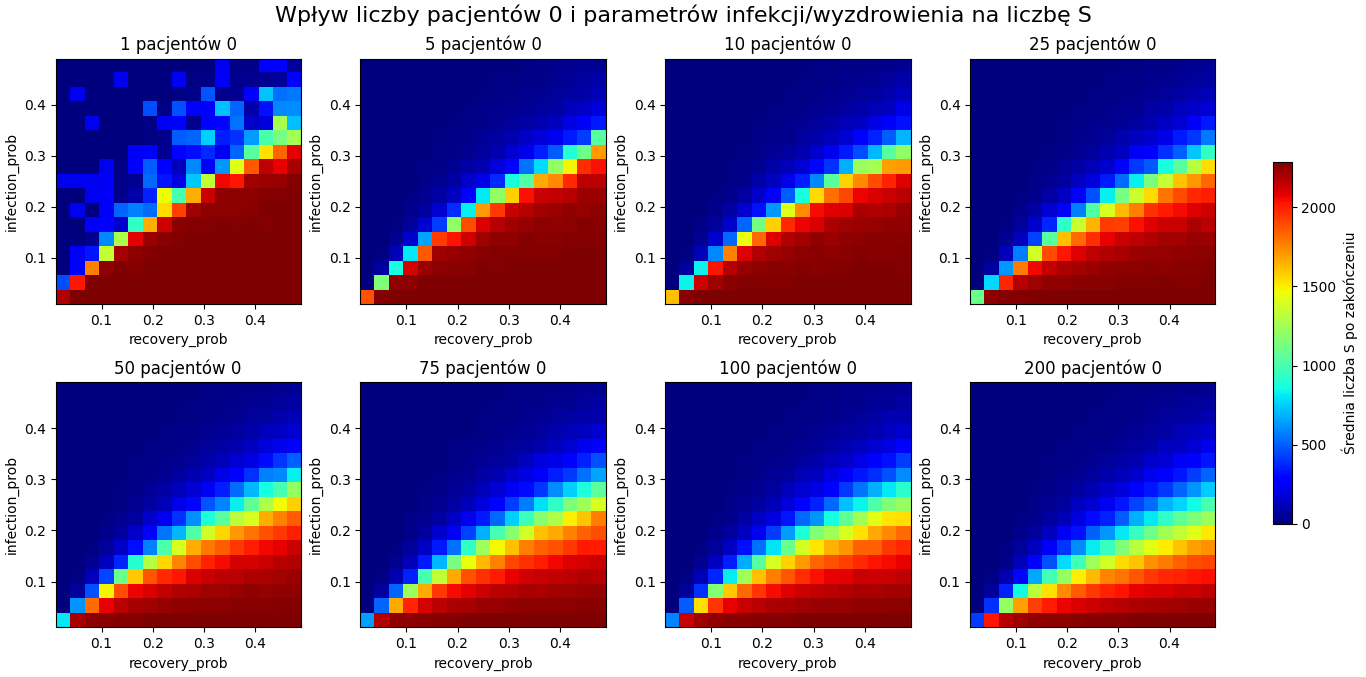
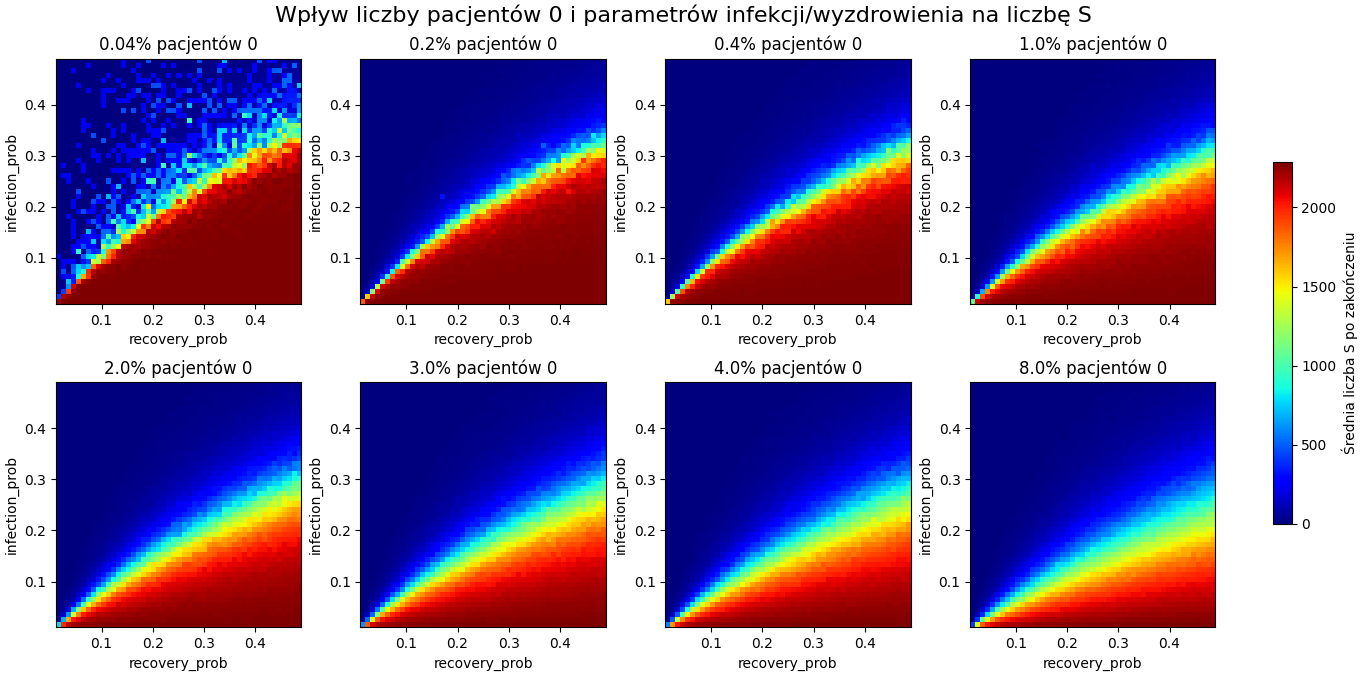
differential equations

diff --git a/src/sim_SIR.py b/src/sim_SIR.py
@@ -2,11 +2,13 @@ import numpy as np
 import matplotlib.pyplot as plt
 import matplotlib.animation as animation
 import matplotlib.patches as mpatches
+from scipy.integrate import odeint
+
 
 size = 50  # Rozmiar siatki
-infection_prob = 0.4  # Prawdopodobieństwo zakażenia sąsiada
+infection_prob = 0.15  # Prawdopodobieństwo zakażenia sąsiada
 recovery_prob = 0.1  # Prawdopodobieństwo wyzdrowienia
-number_patient0 = 75 #liczba chorych na początku
+number_patient0 = 10 #liczba chorych na początku
 
 grid = np.zeros((size, size), dtype=int)
 
@@ -146,6 +148,34 @@ def update(frame):
     grid = new_grid
     im.set_array(grid)
     return [im, line_S, line_I, line_R]
+
+def sir_model(y, t, beta, gamma):
+    S, I, R = y
+    dSdt = -beta * S * I
+    dIdt = beta * S * I - gamma * I
+    dRdt = gamma * I
+    return [dSdt, dIdt, dRdt]
+
+# Parametry zbieżne z parametrami symulacji
+N = size * size
+beta = infection_prob
+gamma = recovery_prob
+
+# Początkowe warunki
+I0 = number_patient0 / N
+S0 = 1 - I0
+R0 = 0
+y0 = [S0, I0, R0]
+
+t = np.linspace(0, 400, 400)  # 400 kroków czasowych
+
+solution = odeint(sir_model, y0, t, args=(beta, gamma))
+S_diff, I_diff, R_diff = solution.T * N  # Skalowanie do liczby osób
+
+line_S_diff, = ax2.plot(t, S_diff, 'b--', label='S (ODE)')
+line_I_diff, = ax2.plot(t, I_diff, 'g--', label='I (ODE)')
+line_R_diff, = ax2.plot(t, R_diff, 'r--', label='R (ODE)')
+
 
 ani = animation.FuncAnimation(fig, update, frames=400, interval=100, blit=False, repeat=False)
 #ani.save("animation.mp4", writer="ffmpeg")

diff --git a/src/SIR_analyze_vector_patient0.py b/src/SIR_analyze_vector_patient0.py
@@ -32,7 +32,7 @@ def simulate(infection_prob, recovery_prob, number_patient0, max_iter=1000):
     return np.sum(grid == 0), np.sum(grid == 2)
 
 # Parametry
-values = np.arange(0.01, 0.5, 0.03)
+values = np.arange(0.01, 0.5, 0.01)
 size2 = len(values)
 num_patient_configs = len(patient0_values)
 results = np.zeros((num_patient_configs, size2, size2), dtype=float)
@@ -54,7 +54,7 @@ fig, axes = plt.subplots(2, (len(patient0_values) + 1) // 2, figsize=(15, 10), c
 for idx, patient0 in enumerate(patient0_values):
     ax = axes[idx // ((len(patient0_values) + 1) // 2)][idx % ((len(patient0_values) + 1) // 2)]
     im = ax.imshow(results[idx], cmap='jet', origin='lower', extent=[0.01, 0.49, 0.01, 0.49])
-    ax.set_title(f'{patient0} pacjentów 0')
+    ax.set_title(f'{(patient0/size**2)*100}% pacjentów 0')
     ax.set_xlabel('recovery_prob')
     ax.set_ylabel('infection_prob')
 
